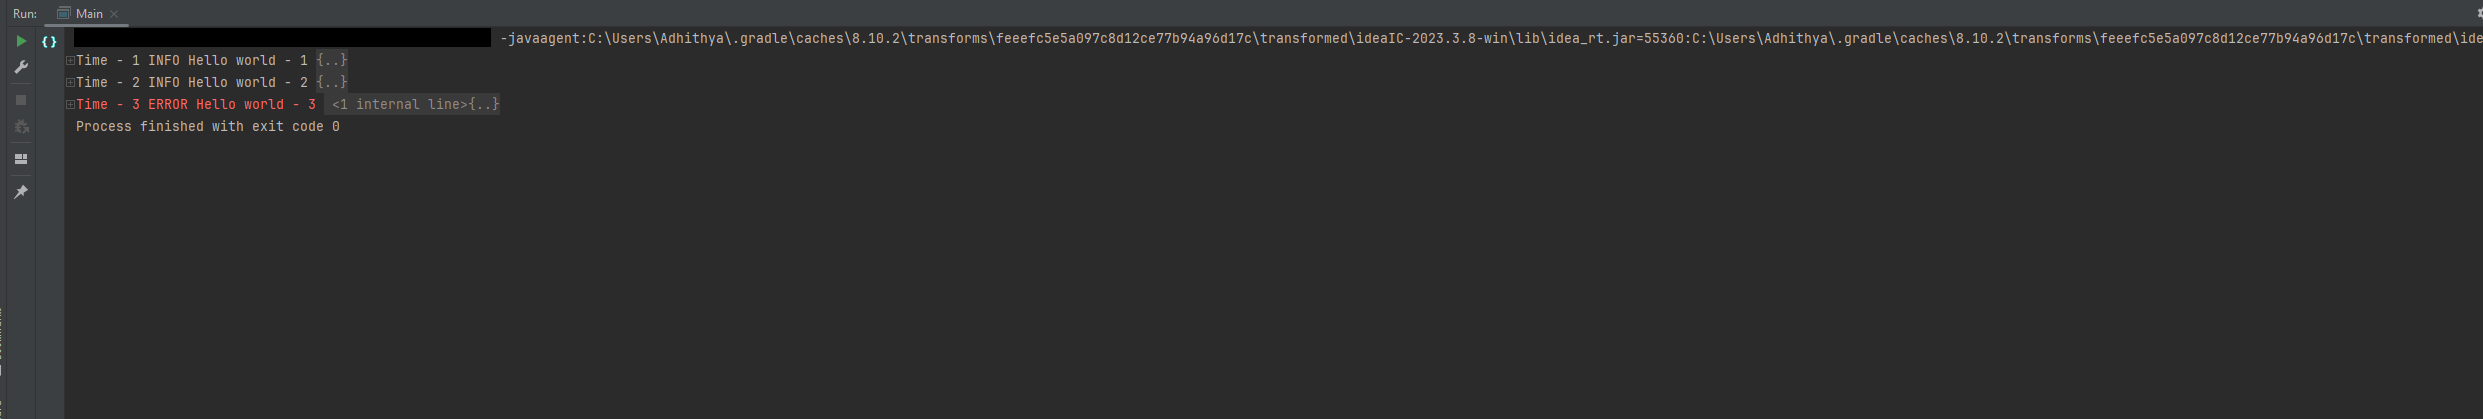
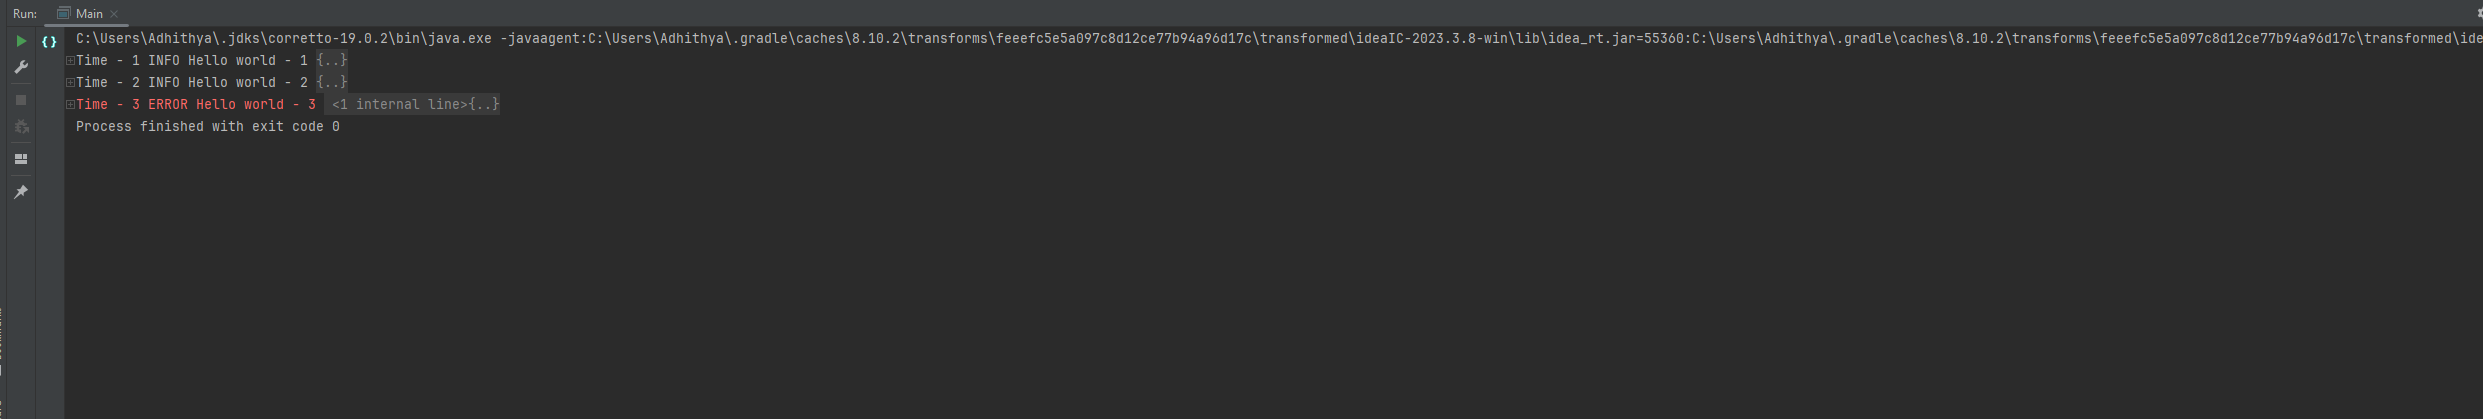
Cleanup

Changed region(s): [[0.031, 0.0621, 0.2171, 0.1241]]

diff --git a/src/test/java/com/adhithya/jsonconsolelogs/utils/CommonUtilsTest.java b/src/test/java/com/adhithya/jsonconsolelogs/utils/CommonUtilsTest.java
@@ -1,27 +1,24 @@
 package com.adhithya.jsonconsolelogs.utils;
 
+import com.adhithya.jsonconsolelogs.factory.UtilsFactory;
+import org.junit.After;
+import org.junit.Before;
+import org.junit.Test;
+import org.mockito.Mock;
+import org.mockito.MockedStatic;
+import org.mockito.MockitoAnnotations;
+
+import java.util.function.Supplier;
+
 import static org.mockito.Mockito.mock;
 import static org.mockito.Mockito.spy;
 import static org.mockito.Mockito.times;
 import static org.mockito.Mockito.verify;
 import static org.mockito.Mockito.when;
 
-import java.util.function.Supplier;
-
-import com.adhithya.jsonconsolelogs.factory.UtilsFactory;
-
-import org.junit.After;
-import org.junit.Before;
-import org.junit.Test;
-import org.mockito.Mock;
-import org.mockito.MockedStatic;
-import org.mockito.Mockito;
-import org.mockito.MockitoAnnotations;
-
 public class CommonUtilsTest {
 
   private CommonUtils commonUtils;
-  private MockedStatic<UtilsFactory> utilsFactoryStaticMock;
 
   @Mock private UtilsFactory utilsFactory;
 
@@ -32,17 +29,7 @@ public class CommonUtilsTest {
   @Before
   public void setup() {
     MockitoAnnotations.openMocks(this);
-    this.utilsFactoryStaticMock = Mockito.mockStatic(UtilsFactory.class);
-    utilsFactoryStaticMock.when(() -> UtilsFactory.getInstance()).thenReturn(utilsFactory);
-    when(utilsFactory.getJsonUtils()).thenReturn(jsonUtils);
-    when(utilsFactory.getConfigUtils()).thenReturn(configUtils);
-
-    commonUtils = new CommonUtils();
-  }
-
-  @After
-  public void cleanUp() {
-    utilsFactoryStaticMock.close();
+    commonUtils = new CommonUtils(jsonUtils, configUtils);
   }
 
   @Test

diff --git a/src/main/java/com/adhithya/jsonconsolelogs/factory/UtilsFactory.java b/src/main/java/com/adhithya/jsonconsolelogs/factory/UtilsFactory.java
@@ -12,11 +12,17 @@ import lombok.Getter;
 @Service
 public final class UtilsFactory {
 
-  @Getter private final CommonUtils commonUtils = new CommonUtils();
+  @Getter private final JSONUtils jsonUtils;
 
-  @Getter private final JSONUtils jsonUtils = new JSONUtils();
+  @Getter private final CommonUtils commonUtils;
 
-  @Getter private final ConfigUtils configUtils = new ConfigUtils();
+  @Getter private final ConfigUtils configUtils;
+
+  public UtilsFactory() {
+    jsonUtils = new JSONUtils();
+    configUtils = new ConfigUtils();
+    commonUtils = new CommonUtils(jsonUtils, configUtils);
+  }
 
   public static UtilsFactory getInstance() {
     return ApplicationManager.getApplication().getService(UtilsFactory.class);

diff --git a/src/main/java/com/adhithya/jsonconsolelogs/utils/CommonUtils.java b/src/main/java/com/adhithya/jsonconsolelogs/utils/CommonUtils.java
@@ -18,9 +18,9 @@ public class CommonUtils {
   private final JSONUtils jsonUtils;
   private final ConfigUtils configUtils;
 
-  public CommonUtils() {
-    this.jsonUtils = UtilsFactory.getInstance().getJsonUtils();
-    this.configUtils = UtilsFactory.getInstance().getConfigUtils();
+  public CommonUtils(JSONUtils jsonUtils, ConfigUtils configUtils) {
+    this.jsonUtils = jsonUtils;
+    this.configUtils = configUtils;
   }
 
   public <T> T computeIfNull(T obj, Supplier<T> function) {

diff --git a/CHANGELOG.md b/CHANGELOG.md
@@ -4,11 +4,18 @@
 
 ## [Unreleased]
 
+## [0.0.1.2] - 2025-01-13
+
+### Added
+
+- Initial scaffold created from [IntelliJ Platform Plugin Template](https://github.com/JetBrains/intellij-platform-plugin-template)
+
 ## [0.0.1] - 2024-12-24
 
 ### Added
 
 - Initial scaffold created from [IntelliJ Platform Plugin Template](https://github.com/JetBrains/intellij-platform-plugin-template)
 
-[Unreleased]: https://github.com/adhithya0010/json-console-logs/compare/v0.0.1...HEAD
+[Unreleased]: https://github.com/adhithya0010/json-console-logs/compare/v0.0.1.2...HEAD
 [0.0.1]: https://github.com/adhithya0010/json-console-logs/commits/v0.0.1
+[0.0.1.2]: https://github.com/adhithya0010/json-console-logs/compare/v0.0.1...v0.0.1.2

diff --git a/README.md b/README.md
@@ -24,6 +24,7 @@ JSON Log Config Dialog
 Console statement rewritten based on configuration
 
 <img src="screenshots/Screenshot 2.png" />
+<img src="screenshots/Screenshot 3.png" />
 
 
 ## Installation
